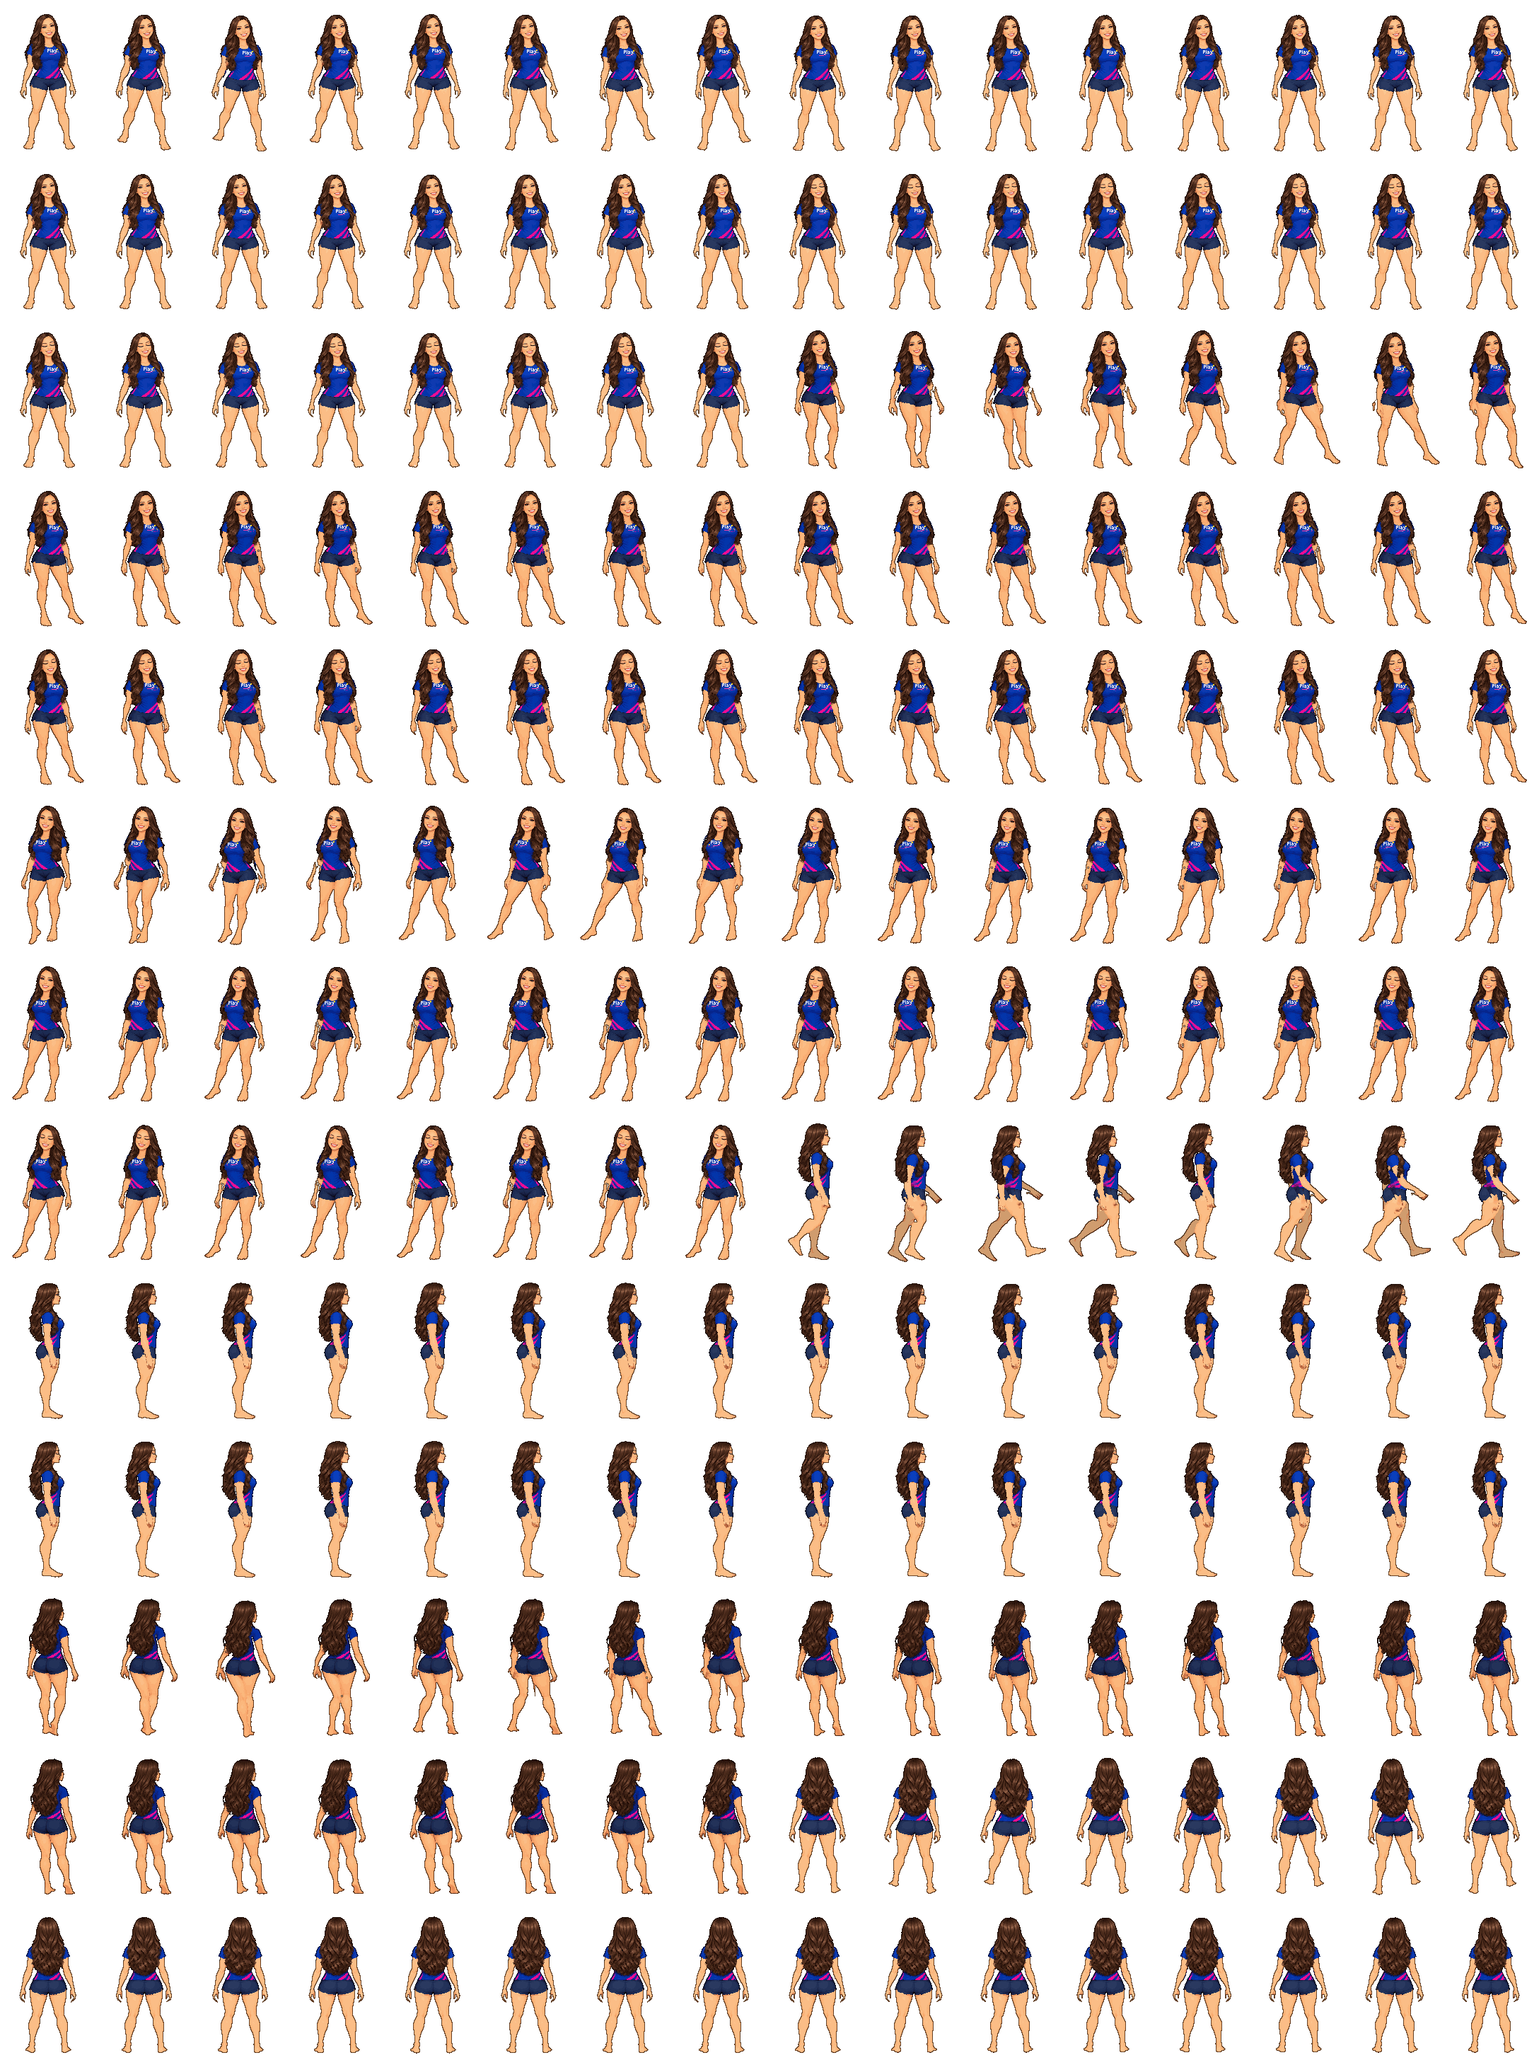
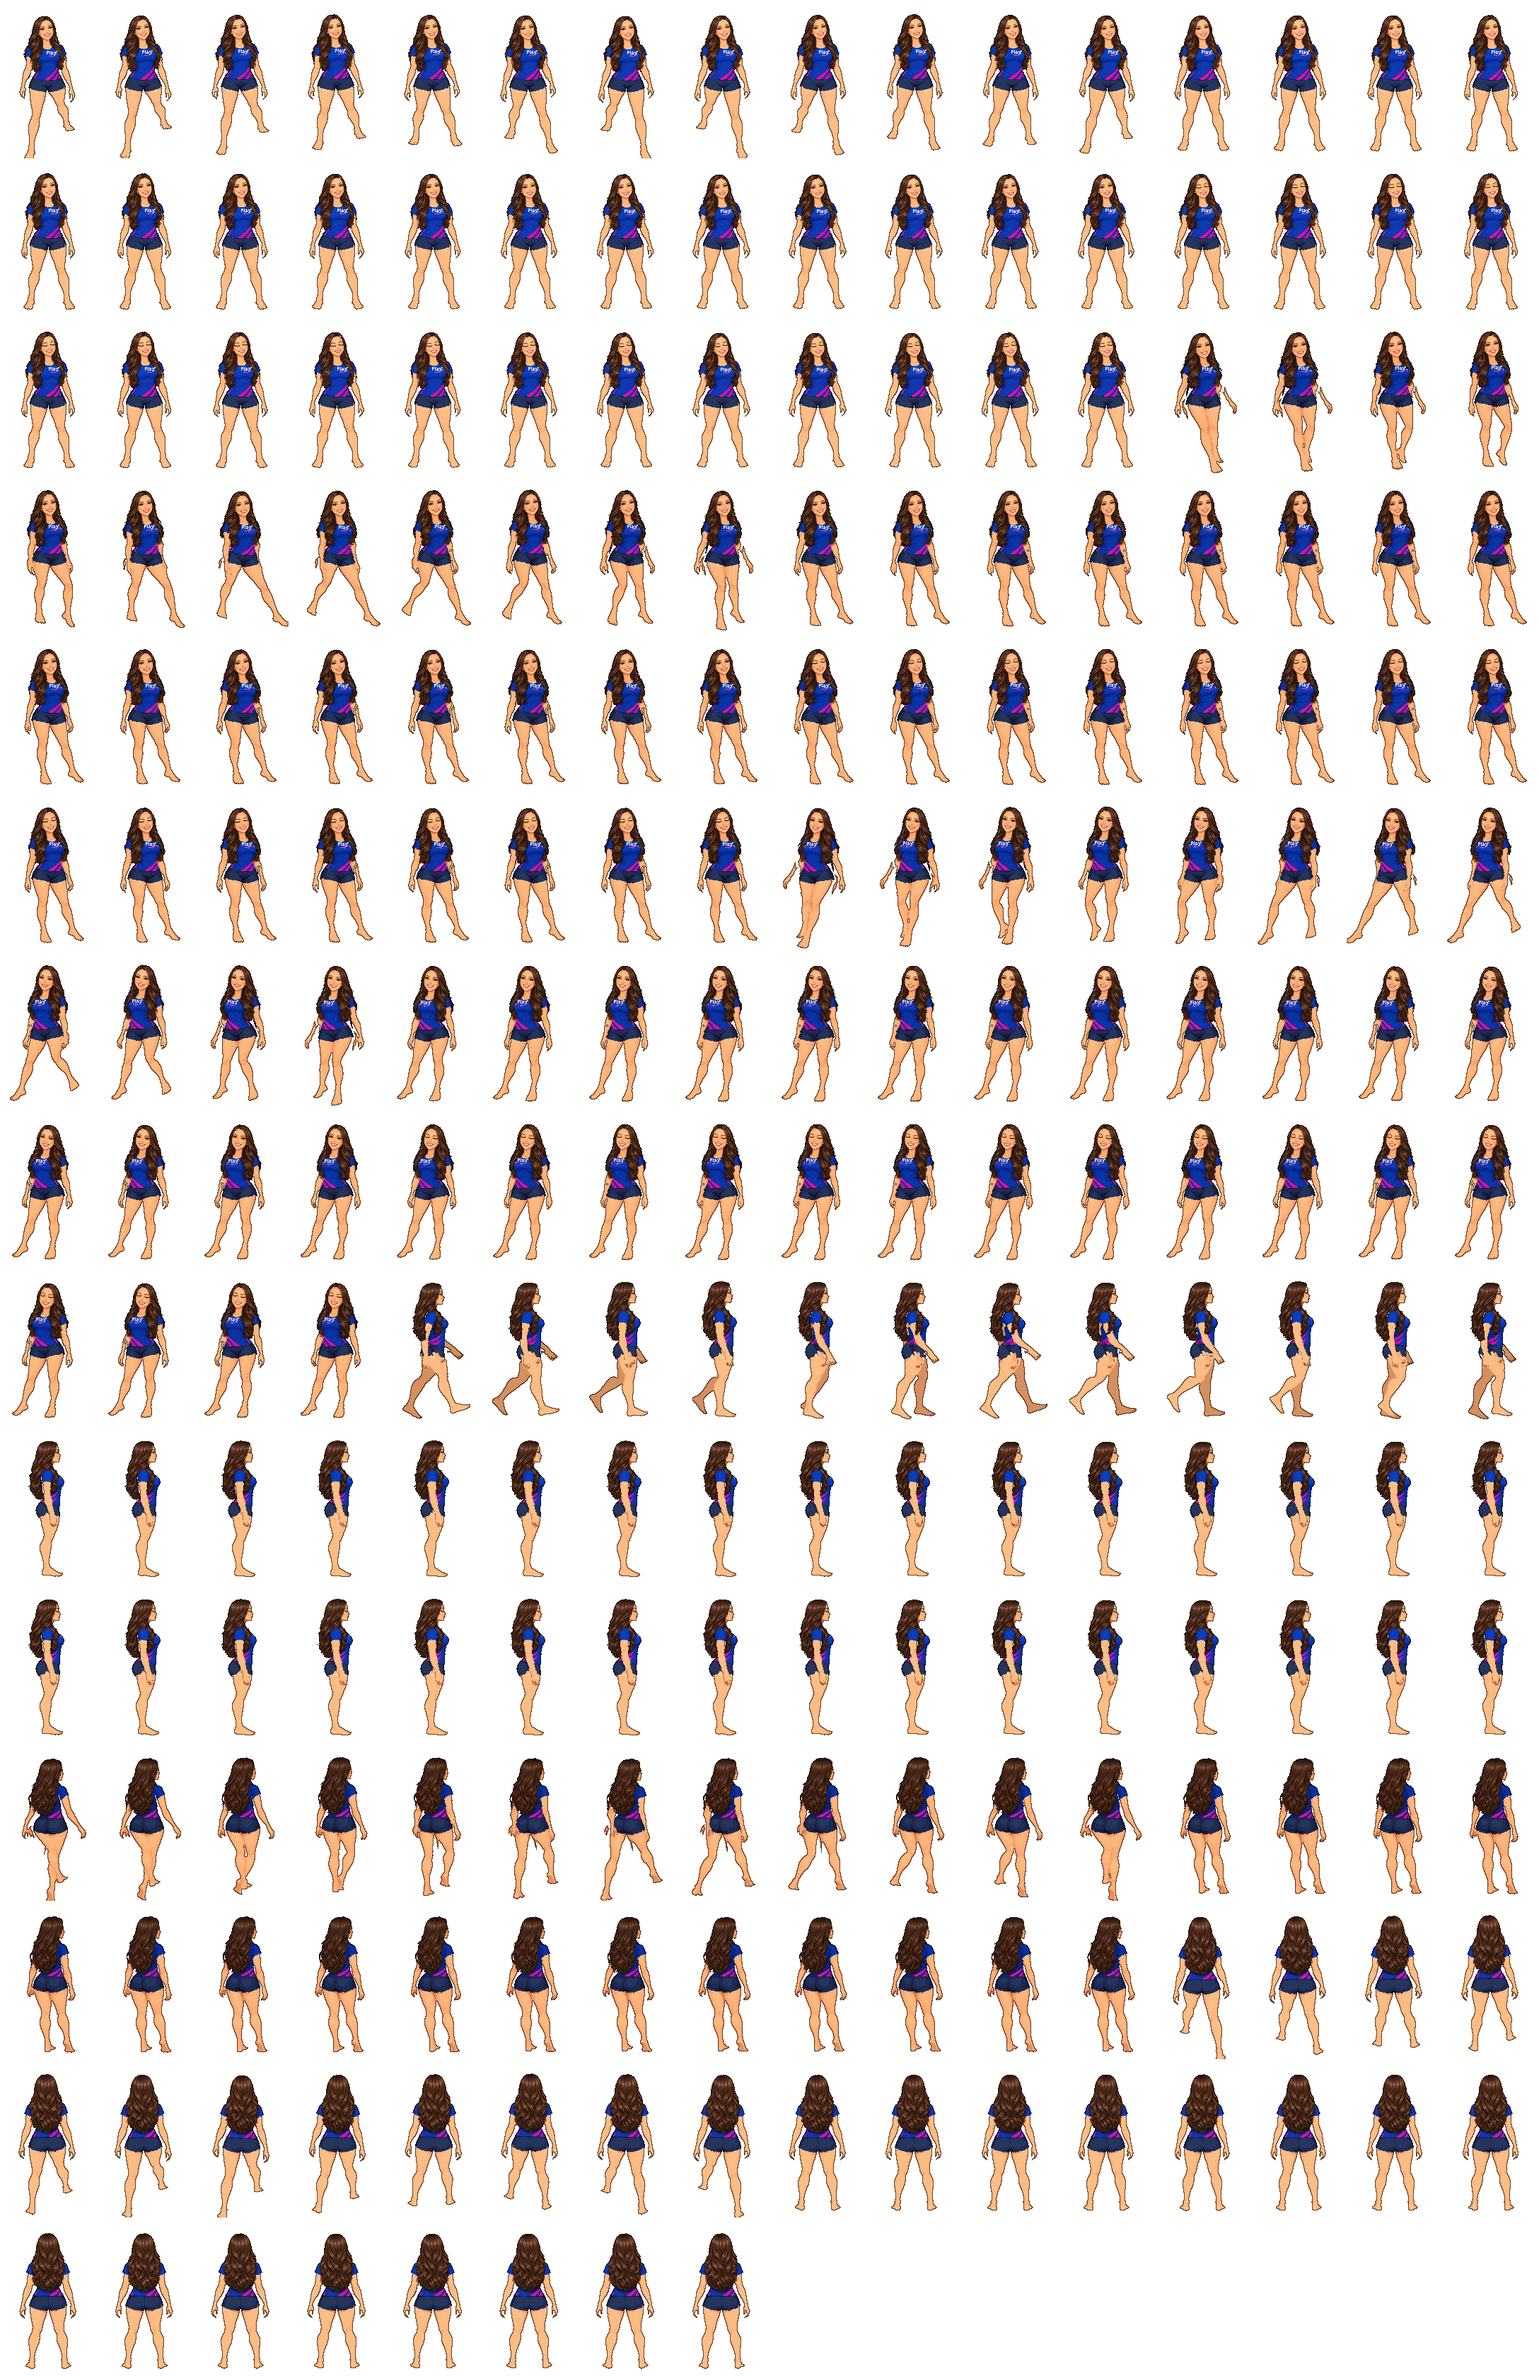
Hall: andar com o pe parado no chao (apoio + balanco, ciclo pela distancia)

diff --git a/src/lib/hall/boneco.ts b/src/lib/hall/boneco.ts
@@ -1,24 +1,31 @@
 /**
- * AS POSES DA MENINA: quanto cada osso gira, desliza ou encolhe em cada
- * quadro, e para onde o cabelo balanca.
+ * AS POSES DA MENINA: quanto cada osso gira, desliza ou estica em cada quadro,
+ * e para onde o cabelo balanca.
  *
- * Cada vista anda de um jeito, porque o desenho e 2D:
- *  - de LADO (perfil): o passo classico -- a perna vai a frente no plano da tela
- *    e o joelho dobra na volta;
- *  - RETA (de frente ou de costas): a perna vem na direcao da camera, entao no
- *    desenho ela so SOBE e encurta (joelho dobrando), o quadril balanca de lado;
- *  - em DIAGONAL (tres-quartos): o passo e curto e o pe da frente desce um
- *    pouco (chega mais perto da camera) -- girar a perna inteira no plano da
- *    tela fazia as pernas cruzarem em tesoura.
+ * O PE NAO PODE PATINAR. Cada perna alterna duas fases:
+ *  - APOIO (metade do ciclo): o pe esta no chao e, em relacao ao corpo, vai de
+ *    "na frente" para "atras" em linha reta, na mesma velocidade em que o corpo
+ *    anda -- entao, no chao, ele fica parado;
+ *  - BALANCO (a outra metade): o pe sai do chao, o joelho dobra e ele volta para
+ *    a frente.
+ * O app avanca a animacao pela DISTANCIA andada (CICLO_EM_PX), nao pelo tempo.
+ *
+ * Como cada vista e um desenho 2D, "a frente" muda de jeito:
+ *  - de LADO: a perna gira no plano da tela;
+ *  - de FRENTE (vindo para a camera): a camera e um pouco alta, entao o pe que vai
+ *    a frente desce na tela (e a perna parece mais comprida) e o de tras sobe (e
+ *    parece mais curta) -- escala da perna = cos(t) + sen(t) * tg(camera);
+ *  - de COSTAS: o contrario;
+ *  - em DIAGONAL: um pouco das duas coisas.
  *
  * Angulos em graus (positivo = horario na tela), deslocamentos e `sobe` em
- * pixels do sprite final (192 de altura), escala por osso [x, y] em volta do pivo.
+ * pixels do sprite (192 de altura), escala por osso [x, y] em volta do pivo.
  */
 
 /** Altura da menina em pe, em pixels do sprite. */
 export const ALTURA_MENINA = 192
 
-export type TipoDeVista = 'lado' | 'reta' | 'diagonal'
+export type TipoDeVista = 'lado' | 'frente' | 'costas' | 'diagonalFrente' | 'diagonalCostas'
 
 export type Pose = {
   tipo: 'andar' | 'parada'
@@ -40,11 +47,36 @@ export type PoseDosOssos = {
 }
 
 const PI2 = Math.PI * 2
+/** A camera olha de cima com uns 30 graus: tg(30). */
+const TG_CAMERA = Math.tan((30 * Math.PI) / 180)
+const rad = (g: number) => (g * Math.PI) / 180
+
+/**
+ * Quanto a tela anda (px do sprite) em um ciclo inteiro (dois passos), em cada
+ * vista -- e o que faz o pe ficar parado no chao. Sai das contas das poses
+ * (perna ~92 px): de lado 2 x 2 x 92 x sen(24); de frente 2 x 2 x 92 x sen(23)
+ * x tg(30); na diagonal 2 x 2 x hipot(92 x sen(14), 92 x 0,12).
+ */
+export const CICLO_EM_PX: Record<TipoDeVista, number> = {
+  lado: 150,
+  frente: 83,
+  costas: 83,
+  diagonalFrente: 100,
+  diagonalCostas: 100,
+}
+
+/** Onde esta o pe de uma perna no ciclo: u = +1 na frente, -1 atras; e quanto ele esta no ar. */
+function perna(fase: number): { u: number; ar: number } {
+  const p = ((fase % 1) + 1) % 1
+  if (p < 0.5) return { u: 1 - 4 * p, ar: 0 } // apoio: linear, como o chao
+  const t = (p - 0.5) * 2
+  const s = t * t * (3 - 2 * t)
+  return { u: -1 + 2 * s, ar: Math.sin(Math.PI * t) }
+}
 
 export function poseDosOssos(tipo: TipoDeVista, p: Pose): PoseDosOssos {
-  const s = Math.sin(p.fase * PI2)
-  const c = Math.cos(p.fase * PI2)
   if (p.tipo === 'parada') {
+    const s = Math.sin(p.fase * PI2)
     // respira (o peito sobe e desce), a cabeca acompanha, o cabelo vai com a brisa
     return {
       angulos: { cabeca: 1.2 * s, bracoPerto: -1.2 * s, bracoLonge: 1.2 * s, antebracoPerto: -2, antebracoLonge: 2 },
@@ -54,74 +86,93 @@ export function poseDosOssos(tipo: TipoDeVista, p: Pose): PoseDosOssos {
       cabelo: { balanco: 2.2, inclina: 0, y: 0.6, fase: p.fase * PI2 },
     }
   }
+
+  const fase = ((p.fase % 1) + 1) % 1
+  const P = perna(fase) // perna perto
+  const L = perna(fase + 0.5) // perna longe
+  // o corpo fica mais alto quando a perna de apoio passa embaixo dele (u ~ 0)
+  const apoio = fase < 0.5 ? P : L
+  const sobe = 2.2 * (1 - Math.abs(apoio.u)) - 0.6
+  // e pende para o lado da perna de apoio
+  const lado = fase < 0.5 ? -1 : 1
+  const cabelo = { balanco: 1.8, inclina: 0, y: 1, fase: p.fase * PI2 * 2 }
+
   if (tipo === 'lado') {
+    const t = 24
     return {
       angulos: {
-        corpo: -1.5 + 1 * c,
-        cabeca: 1.5 - 1 * c,
-        coxaPerto: -24 * s,
-        coxaLonge: 24 * s,
-        // o joelho dobra na perna que esta passando para a frente
-        canelaPerto: 6 + 42 * Math.max(0, c),
-        canelaLonge: 6 + 42 * Math.max(0, -c),
-        bracoPerto: 20 * s,
-        bracoLonge: -20 * s,
-        antebracoPerto: -10 - 14 * Math.max(0, -s),
-        antebracoLonge: -10 - 14 * Math.max(0, s),
+        corpo: -1.5,
+        cabeca: 1.5,
+        // de perfil, para a frente e girar no sentido anti-horario
+        coxaPerto: -t * P.u,
+        coxaLonge: -t * L.u,
+        canelaPerto: 3 + 46 * P.ar,
+        canelaLonge: 3 + 46 * L.ar,
+        // braco ao contrario da perna do mesmo lado
+        bracoPerto: 18 * P.u,
+        bracoLonge: 18 * L.u,
+        antebracoPerto: -8 - 12 * Math.max(0, -P.u),
+        antebracoLonge: -8 - 12 * Math.max(0, -L.u),
       },
       desloca: {},
       escala: {},
-      sobe: -3 * Math.abs(s) + 1.5,
-      cabelo: { balanco: 1.6, inclina: -2.2, y: 1.2, fase: p.fase * PI2 * 2 },
+      sobe,
+      cabelo: { ...cabelo, balanco: 1.6, inclina: -2.2 },
     }
   }
-  if (tipo === 'reta') {
-    const ergueP = Math.max(0, s)
-    const ergueL = Math.max(0, -s)
+
+  if (tipo === 'frente' || tipo === 'costas') {
+    const t = 23
+    const sinal = tipo === 'frente' ? 1 : -1 // de costas, o pe da frente sobe na tela
+    const esticar = (u: number) => Math.cos(rad(t * u)) + sinal * Math.sin(rad(t * u)) * TG_CAMERA
     return {
       angulos: {
-        corpo: 1.6 * s,
-        cabeca: -1.2 * s,
-        coxaPerto: 3 * ergueP,
-        coxaLonge: -3 * ergueL,
-        // de frente o braco vai e volta na direcao da camera: no desenho mexe pouco
-        bracoPerto: 2.5 * s,
-        bracoLonge: 2.5 * s,
-        antebracoPerto: -2 - 3 * ergueL,
-        antebracoLonge: 2 + 3 * ergueP,
+        corpo: 1.2 * lado,
+        cabeca: -1 * lado,
+        // o pe no ar abre um tiquinho para fora (nao bate no outro)
+        coxaPerto: 2.5 * P.ar,
+        coxaLonge: -2.5 * L.ar,
+        antebracoPerto: -2,
+        antebracoLonge: 2,
       },
-      desloca: { corpo: [1.6 * s, 0] },
-      // a perna que vem na direcao da camera encurta (o joelho dobrando)
+      desloca: { corpo: [1.4 * lado, 0] },
       escala: {
-        coxaPerto: [1, 1 - 0.07 * ergueP],
-        canelaPerto: [1, 1 - 0.13 * ergueP],
-        coxaLonge: [1, 1 - 0.07 * ergueL],
-        canelaLonge: [1, 1 - 0.13 * ergueL],
+        coxaPerto: [1, esticar(P.u) - 0.1 * P.ar],
+        coxaLonge: [1, esticar(L.u) - 0.1 * L.ar],
+        // o joelho dobrando, visto de frente, encurta a canela
+        canelaPerto: [1, 1 - 0.1 * P.ar],
+        canelaLonge: [1, 1 - 0.1 * L.ar],
+        // o braco vai para a frente (desce um pouco na tela) quando a perna do mesmo lado vai para tras
+        bracoPerto: [1, 1 - sinal * 0.05 * P.u],
+        bracoLonge: [1, 1 - sinal * 0.05 * L.u],
       },
-      sobe: 2 * Math.abs(c),
-      cabelo: { balanco: 2.2, inclina: 0, y: 1, fase: p.fase * PI2 * 2 },
+      sobe,
+      cabelo: { ...cabelo, balanco: 2 * lado },
     }
   }
-  // diagonal (tres-quartos)
+
+  // diagonal (tres-quartos): passo para o lado (gira) e para a camera (estica)
+  const t = 14
+  const sinal = tipo === 'diagonalFrente' ? 1 : -1
   return {
     angulos: {
-      corpo: 1.2 * s,
-      cabeca: -1.2 * s,
-      coxaPerto: -8 * s,
-      coxaLonge: 8 * s,
-      canelaPerto: 3 + 22 * Math.max(0, -c),
-      canelaLonge: 3 + 22 * Math.max(0, c),
-      bracoPerto: 6 * s,
-      bracoLonge: -6 * s,
-      antebracoPerto: -4 - 5 * Math.max(0, s),
-      antebracoLonge: -4 - 5 * Math.max(0, -s),
+      corpo: 1 * lado,
+      cabeca: -1 * lado,
+      coxaPerto: -t * P.u,
+      coxaLonge: -t * L.u,
+      canelaPerto: 3 + 28 * P.ar,
+      canelaLonge: 3 + 28 * L.ar,
+      bracoPerto: 7 * P.u,
+      bracoLonge: 7 * L.u,
+      antebracoPerto: -5 - 6 * Math.max(0, -P.u),
+      antebracoLonge: -5 - 6 * Math.max(0, -L.u),
     },
-    desloca: {
-      coxaPerto: [1.5 * s, 3.5 * s],
-      coxaLonge: [-1.5 * s, -3.5 * s],
+    desloca: {},
+    escala: {
+      coxaPerto: [1, 1 + sinal * 0.12 * P.u - 0.06 * P.ar],
+      coxaLonge: [1, 1 + sinal * 0.12 * L.u - 0.06 * L.ar],
     },
-    escala: {},
-    sobe: 3 * Math.abs(c),
-    cabelo: { balanco: 1.6, inclina: -1.2, y: 1, fase: p.fase * PI2 * 2 },
+    sobe,
+    cabelo: { ...cabelo, inclina: -1.2 },
   }
 }

diff --git a/scripts/hall/video/palco.ts b/scripts/hall/video/palco.ts
@@ -6,7 +6,7 @@
  * cabelo na brisa), gira 360, anda nas 8 direcoes, desce a escada degrau a
  * degrau, anda na areia; no fim a noite cai e o lampiao acende.
  */
-import { CICLO_PARADA, GIRO, PASSO_DO_CICLO, desenharMenina, direcaoDe, type Direcao, type FolhaDeSprites } from '../../../src/lib/hall/sprite'
+import { CICLO_DA_DIRECAO, CICLO_PARADA, GIRO, desenharMenina, direcaoDe, velocidadeNaTela, type Direcao, type FolhaDeSprites } from '../../../src/lib/hall/sprite'
 
 const MUNDO = { w: 1000, h: 1400 }
 const ESCALA = 2 // cada pixel da arte = 2x2 na tela
@@ -213,9 +213,12 @@ const ROTEIRO: Passo[] = [
   { parada: 3.2, dir: 'S' },
   { girar: 1.6 },
   { parada: 0.6, dir: 'S' },
-  { andar: [610, 300] }, // leste
-  { andar: [610, 210] }, // norte
-  { andar: [330, 210] }, // oeste
+  { andar: [430, 470] }, // sul (vindo para a camera)
+  { parada: 0.5, dir: 'S' },
+  { andar: [430, 230] }, // norte (indo embora)
+  { andar: [610, 230] }, // leste
+  { andar: [610, 300] }, // sul
+  { andar: [330, 300] }, // oeste
   { andar: [330, 330] }, // sul
   { andar: [420, 375] }, // sudeste
   { andar: [500, 335] }, // nordeste
@@ -282,11 +285,12 @@ export function simular(fps: number): Estado[] {
     } else if ('andar' in p) {
       const [tx, ty] = p.andar
       dir = direcaoDe(tx - x, ty - y)
+      const vel = velocidadeNaTela(VEL, tx - x, ty - y)
       for (;;) {
         const dx = tx - x
         const dy = ty - y
         const dist = Math.hypot(dx, dy)
-        const anda = VEL * dt
+        const anda = vel * dt
         if (dist <= anda) {
           x = tx
           y = ty
@@ -294,7 +298,7 @@ export function simular(fps: number): Estado[] {
         }
         x += (dx / dist) * anda
         y += (dy / dist) * anda
-        faseAndar += anda / PASSO_DO_CICLO
+        faseAndar += anda / CICLO_DA_DIRECAO[dir]
         registra('andar', faseAndar % 1)
       }
     } else if ('escada' in p) {
@@ -304,13 +308,14 @@ export function simular(fps: number): Estado[] {
       for (let k = 0; k < ESCADA.n + 1; k++) {
         const x0 = x
         const y0 = y
-        const durar = (ESCADA.piso / (VEL * 0.62))
+        const velE = velocidadeNaTela(VEL, D[0], D[1]) * 0.62
+        const durar = ESCADA.piso / velE
         for (let s = 0; s < durar; s += dt) {
           const u = s / durar
           const desce = k < ESCADA.n ? smooth(0.35, 0.7, u) * ESCADA.degrau : 0
           x = x0 + D[0] * ESCADA.piso * u
           y = y0 + D[1] * ESCADA.piso * u + desce
-          faseAndar += (VEL * 0.62 * dt) / PASSO_DO_CICLO
+          faseAndar += (velE * dt) / CICLO_DA_DIRECAO.SE
           registra('andar', faseAndar % 1)
         }
         x = x0 + D[0] * ESCADA.piso

diff --git a/src/lib/hall/sprite.ts b/src/lib/hall/sprite.ts
@@ -43,8 +43,31 @@ export function direcaoDe(dx: number, dy: number): Direcao {
   return (['E', 'SE', 'S', 'SO', 'O', 'NO', 'N', 'NE'] as Direcao[])[setor]
 }
 
-/** Comprimento (px do sprite) de um ciclo de caminhada: dois passos, sem o pe patinar. */
-export const PASSO_DO_CICLO = 146
+/**
+ * Quanto a tela anda (px do sprite) em um ciclo de caminhada (dois passos), em
+ * cada direcao: e o que faz o pe ficar parado no chao (ver CICLO_EM_PX em
+ * boneco.ts). A animacao avanca pela distancia andada / este valor.
+ */
+export const CICLO_DA_DIRECAO: Record<Direcao, number> = {
+  S: 83,
+  N: 83,
+  E: 150,
+  O: 150,
+  SE: 100,
+  SO: 100,
+  NE: 100,
+  NO: 100,
+}
+
+/**
+ * Velocidade na tela para uma velocidade "de chao": a vista e de cima em
+ * diagonal (2:1), entao andar para cima ou para baixo na tela cobre metade dos
+ * pixels de andar para o lado.
+ */
+export function velocidadeNaTela(velocidadeNoChao: number, dx: number, dy: number): number {
+  const d = Math.hypot(dx, dy) || 1
+  return velocidadeNoChao / Math.hypot(dx / d, (2 * dy) / d)
+}
 /** Quanto dura o ciclo de "parada" (respirar e o cabelo na brisa), em segundos. */
 export const CICLO_PARADA = 2.4
 
